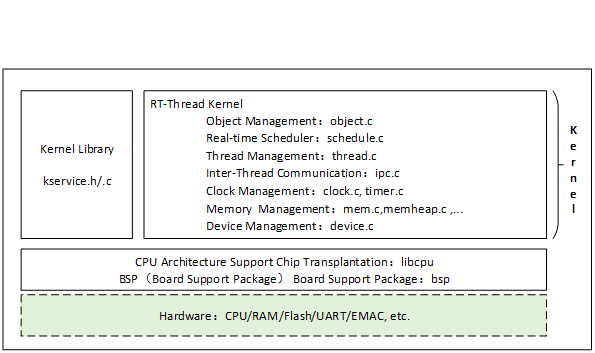
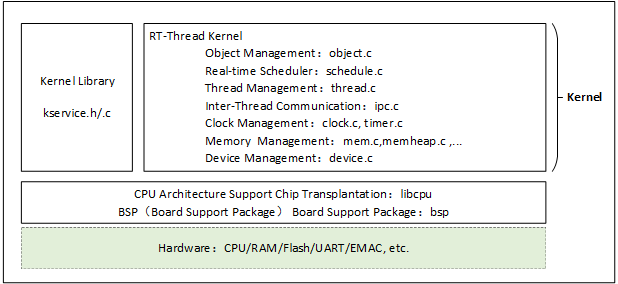
【modify】Adjust some blurred pictures and add names to them

Changed region(s): [[0.0, 0.0, 0.9983, 1.0], [0.242, 0.0563, 0.8773, 0.0845]]

diff --git a/quick-start/quick-start.md b/quick-start/quick-start.md
@@ -39,7 +39,7 @@ kernel-sample-0.1.0    | Kernel sample for RT-Thread.
 
 In the directory, there is project.uvprojx file, which is an MDK5 project file in the sample referenced in this manual. Double-click "project.uvprojx" icon to open the project file:
 
-![打开第一个 RT-Thread 工程](./figures/5.png)
+![Open the project](./figures/5.png)
 
 Under the "Project" column on the left side of the main window of the project, you can see the file list of the project. These files are stored in the following groups, respectively:
 
@@ -56,18 +56,18 @@ Under the "Project" column on the left side of the main window of the project, y
 
 Now let's click the button from the toolbar on the top the window,![img](./figures/compile.jpg), compiling the project as shown:
 
-![编译工程](./figures/9.png)
+![compiling](./figures/9.png)
 
 The result of the compilation is displayed in the "Build Output" bar at the bottom of the window. If nothing else, it will say "0 Error(s), * Warning(s)." on the last line, that is, there are no errors or warnings.
 
 After compiling RT-Thread/STM32, we can simulate running RT-Thread through the MDK-ARM simulator. Click ![img](./figures/debug.jpg)at the top right of the window or directly hit Ctrl+F5 to enter the simulation interface and hit F5 to start, then click the button in the toolbar shown in the screen shot or select “View→Serial Windows→UART#1” in the menu bar to open the serial port 1 window. You can see that the output of the serial port only shows the LOGO of RT-Thread. This is because the user code is empty and the result of its simulation is as shown:
 
-![模拟运行 RT-Thread](./figures/10.png)
+![simulate RT-Thread1](./figures/10.png)
 
 !!! tip "TIP"
     We can output all the commands supported by the current system by inputting the Tab key or `help + enter ` , as shown in the following figure.
 
-![模拟运行 RT-Thread](./figures/6.png)
+![simulate RT-Thread2](./figures/6.png)
 
 
 
@@ -93,7 +93,7 @@ For technical engineers working on electronics, marquee is probably the simplest
 
 Under UART#1, input msh command: led and then click Enter to run it, as shown:
 
-![模拟运行跑马灯](./figures/11.png)
+![run led](./figures/11.png)
 
 **Example of a Marquee**
 
@@ -131,7 +131,7 @@ MSH_CMD_EXPORT(led, RT-Thread first led sample);
 
 Additional kernel examples can be found in the kernel-sample-0.1.0 directory.
 
-![更多内核示例](./figures/14.png)
+![more kernel samples](./figures/14.png)
 
 ## Frequently Asked Question 
 

diff --git a/basic/basic.md b/basic/basic.md
@@ -84,7 +84,7 @@ int $Sub$$main(void)
 
 Here, the`$Sub$$main`function simply calls the rtthread_startup() function. RT-Thread allows multiple platforms and multiple compilers, and the rtthread_startup() function is a uniform entry point specified by RT-Thread, so the `$Sub$$main` function simply only needs to call the rtthread_startup() function (RT-Thread compiled using compiler GNU GCC is an example where it jumps directly from the assembly startup code section to the rtthread_startup() function and start the execution of the first C code). The rtthread_startup() function can be found in the code of components.c, the startup process of RT-Thread is as shown below:
 
-![系统启动流程](figures/03Startup_process.png)
+![System startup process](figures/03Startup_process.png)
 
 Code for the rtthread_startup() function is as follows:
 
